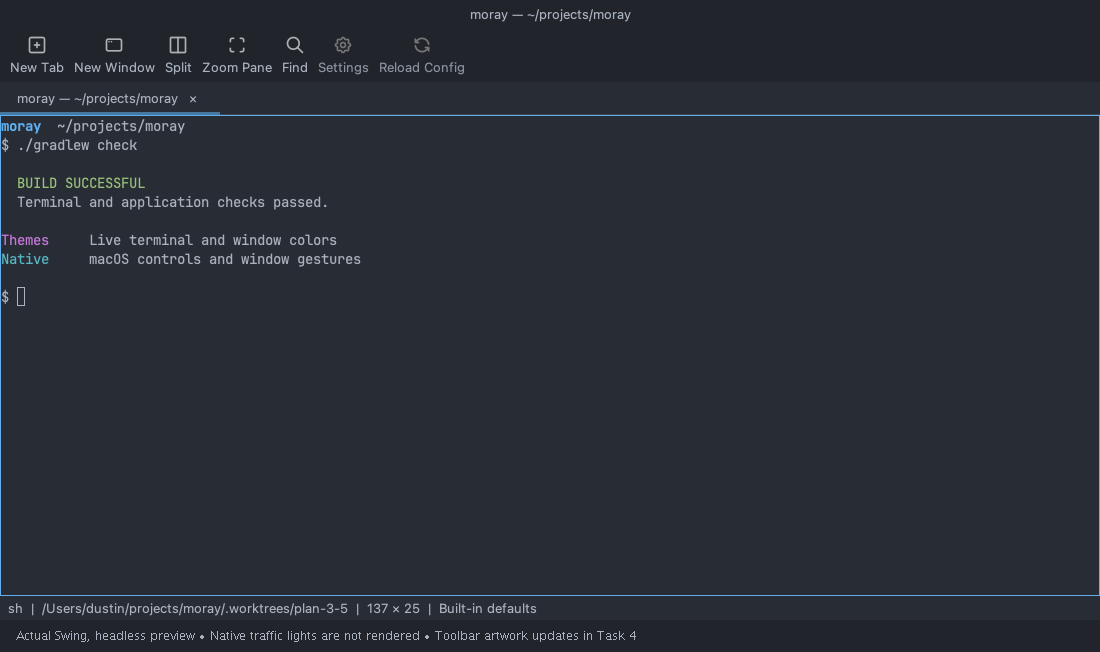
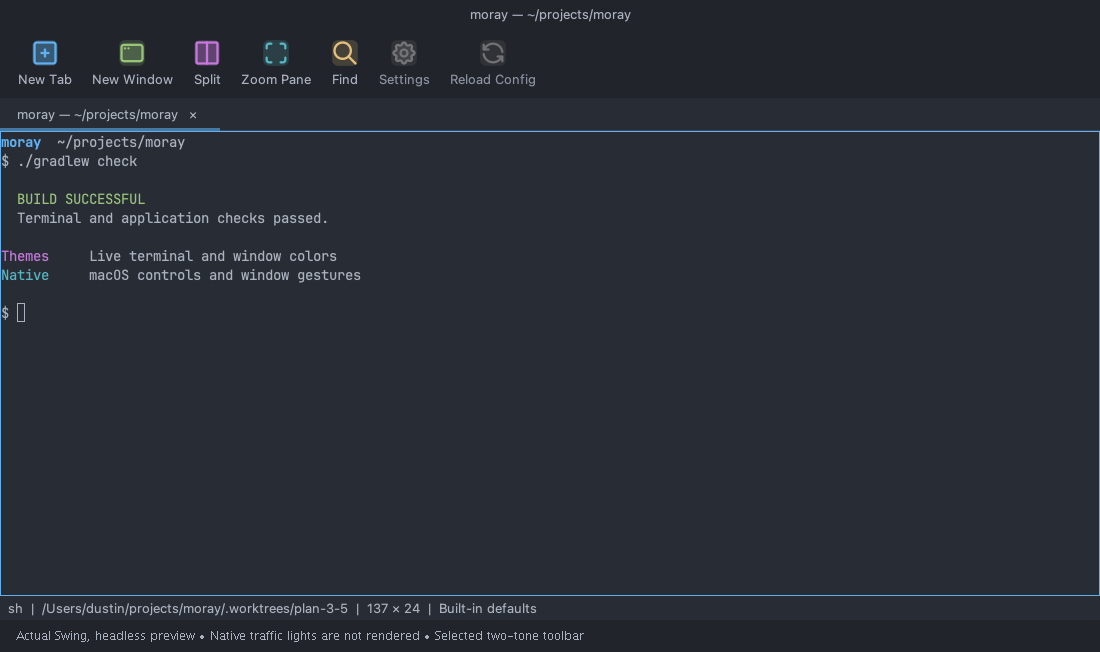
Add two-tone colored toolbar

Changed region(s): [[0.0, 0.0613, 0.4636, 0.4908], [0.4018, 0.9509, 0.5564, 0.9816], [0.9891, 0.1534, 1.0, 0.2147]]

diff --git a/moray-app/src/test/java/dev/moray/app/AppIconsTest.java b/moray-app/src/test/java/dev/moray/app/AppIconsTest.java
@@ -1,23 +1,38 @@
 package dev.moray.app;
 
-import com.formdev.flatlaf.FlatDarkLaf;
-import com.formdev.flatlaf.FlatLightLaf;
+import com.formdev.flatlaf.extras.FlatSVGIcon;
+import java.awt.Color;
 import java.awt.image.BufferedImage;
+import java.util.LinkedHashSet;
+import java.util.Set;
 import javax.swing.UIManager;
 import org.junit.jupiter.api.Test;
-import static org.assertj.core.api.Assertions.assertThat;
 import static dev.moray.app.DesktopTestSupport.edt;
+import static org.assertj.core.api.Assertions.assertThat;
 
 class AppIconsTest {
-    @Test void bundledToolbarResourcesLoadAndPaintInBothAppearances() throws Exception {
+    private static final IconCase[] ICONS = {
+        new IconCase("square-plus", 0x61afef, 0x315fc4),
+        new IconCase("app-window", 0x98c379, 0x3d7d3b),
+        new IconCase("columns-2", 0xc678dd, 0x87218b),
+        new IconCase("maximize", 0x56b6c2, 0x006b96),
+        new IconCase("search", 0xe5c07b, 0x986801),
+        new IconCase("settings", 0xa4adba, 0x696c77),
+        new IconCase("refresh", 0xe06c75, 0xca4035)
+    };
+
+    @Test void everyToolbarIconPaintsTheSelectedTwoToneTreatmentInBothThemes() throws Exception {
         edt(() -> {
             var original = UIManager.getLookAndFeel();
             try {
-                FlatLightLaf.setup();
-                int light = paintIcons();
-                FlatDarkLaf.setup();
-                int dark = paintIcons();
-                assertThat(dark).as("dark chrome uses brighter icon strokes").isGreaterThan(light);
+                var themes = new ThemeController();
+                Set<Integer> darkStrokes = paintAndVerify(ICONS, true);
+                themes.select(BuiltinTheme.LIGHT);
+                Set<Integer> lightStrokes = paintAndVerify(ICONS, false);
+
+                assertThat(darkStrokes).hasSize(ICONS.length);
+                assertThat(lightStrokes).hasSize(ICONS.length);
+                assertThat(lightStrokes).doesNotContainAnyElementsOf(darkStrokes);
             } finally {
                 try { UIManager.setLookAndFeel(original); }
                 catch (javax.swing.UnsupportedLookAndFeelException e) { throw new AssertionError(e); }
@@ -25,21 +40,59 @@ class AppIconsTest {
         });
     }
 
-    private static int paintIcons() {
-        int brightness = 0;
-        for (String name : new String[]{"square-plus", "app-window", "columns-2", "maximize", "search", "settings", "refresh"}) {
-            var icon = AppIcons.icon(name);
-            assertThat(icon.hasFound()).as(name).isTrue();
-            BufferedImage image = new BufferedImage(24, 24, BufferedImage.TYPE_INT_ARGB);
-            var graphics = image.createGraphics();
-            try { icon.paintIcon(null, graphics, 0, 0); } finally { graphics.dispose(); }
-            int pixels = 0;
-            for (int y = 0; y < 24; y++) for (int x = 0; x < 24; x++) {
-                int color = image.getRGB(x, y);
-                if ((color >>> 24) != 0) { pixels++; brightness += color & 255; }
+    @Test void anExistingIconRecolorsWhenTheApplicationThemeChanges() throws Exception {
+        edt(() -> {
+            var original = UIManager.getLookAndFeel();
+            try {
+                var themes = new ThemeController();
+                FlatSVGIcon icon = AppIcons.icon("square-plus");
+                assertThat(paint(icon).opaqueRgb()).contains(0x61afef);
+
+                themes.select(BuiltinTheme.LIGHT);
+
+                assertThat(paint(icon).opaqueRgb()).contains(0x315fc4).doesNotContain(0x61afef);
+            } finally {
+                try { UIManager.setLookAndFeel(original); }
+                catch (javax.swing.UnsupportedLookAndFeelException e) { throw new AssertionError(e); }
             }
-            assertThat(pixels).as(name + " has visible strokes").isGreaterThan(0);
-        }
-        return brightness;
+        });
     }
+
+    private static Set<Integer> paintAndVerify(IconCase[] cases, boolean dark) {
+        Set<Integer> strokes = new LinkedHashSet<>();
+        for (IconCase item : cases) {
+            FlatSVGIcon icon = AppIcons.icon(item.name());
+            int stroke = dark ? item.darkRgb() : item.lightRgb();
+            assertThat(icon.hasFound()).as(item.name()).isTrue();
+            assertThat(icon.getWidth()).as(item.name() + " logical width").isEqualTo(28);
+            assertThat(icon.getHeight()).as(item.name() + " logical height").isEqualTo(28);
+
+            Painted painted = paint(icon);
+            assertThat(painted.opaqueRgb()).as(item.name() + " stroke color").contains(stroke);
+            assertThat(painted.translucentPixels()).as(item.name() + " soft color field").isGreaterThan(100);
+            assertThat(painted.opaquePixels()).as(item.name() + " recognizable outline").isGreaterThan(10);
+            strokes.add(stroke);
+        }
+        return strokes;
+    }
+
+    private static Painted paint(FlatSVGIcon icon) {
+        BufferedImage image = new BufferedImage(icon.getIconWidth(), icon.getIconHeight(), BufferedImage.TYPE_INT_ARGB);
+        var graphics = image.createGraphics();
+        try { icon.paintIcon(null, graphics, 0, 0); } finally { graphics.dispose(); }
+        Set<Integer> opaqueRgb = new LinkedHashSet<>();
+        int translucent = 0;
+        int opaque = 0;
+        for (int y = 0; y < image.getHeight(); y++) for (int x = 0; x < image.getWidth(); x++) {
+            Color color = new Color(image.getRGB(x, y), true);
+            if (color.getAlpha() == 255) {
+                opaque++;
+                opaqueRgb.add(color.getRGB() & 0xffffff);
+            } else if (color.getAlpha() > 0) translucent++;
+        }
+        return new Painted(opaqueRgb, translucent, opaque);
+    }
+
+    private record IconCase(String name, int darkRgb, int lightRgb) {}
+    private record Painted(Set<Integer> opaqueRgb, int translucentPixels, int opaquePixels) {}
 }

diff --git a/moray-app/src/test/java/dev/moray/app/WindowChromeTest.java b/moray-app/src/test/java/dev/moray/app/WindowChromeTest.java
@@ -3,6 +3,7 @@ package dev.moray.app;
 import com.formdev.flatlaf.FlatDarkLaf;
 import com.formdev.flatlaf.FlatLightLaf;
 import java.util.ArrayDeque;
+import java.util.List;
 import javax.swing.*;
 import org.junit.jupiter.api.Test;
 import static dev.moray.app.DesktopTestSupport.*;
@@ -39,6 +40,38 @@ class WindowChromeTest {
                 try { UIManager.setLookAndFeel(original); }
                 catch (UnsupportedLookAndFeelException e) { throw new AssertionError(e); }
             }
+        });
+    }
+
+    @Test void coloredToolbarKeepsLabelsAccessibilityDisabledActionsAndVisibilityModes() throws Exception {
+        edt(() -> {
+            var owner = content(launcher(new ArrayDeque<>()));
+            owner.updateActions();
+            List<JButton> buttons = java.util.Arrays.stream(owner.toolbar().getComponents())
+                .filter(JButton.class::isInstance).map(JButton.class::cast).toList();
+
+            assertThat(buttons).extracting(JButton::getText)
+                .containsExactly("New Tab", "New Window", "Split", "Zoom Pane", "Find", "Settings", "Reload Config");
+            assertThat(buttons).allSatisfy(button -> {
+                assertThat(button.getIcon().getIconWidth()).isEqualTo(28);
+                assertThat(button.getIcon().getIconHeight()).isEqualTo(28);
+                assertThat(button.getAccessibleContext().getAccessibleName()).isNotBlank();
+                assertThat(button.getToolTipText()).isNotBlank();
+            });
+            assertThat(buttons.get(2).getAccessibleContext().getAccessibleName()).isEqualTo("Split pane");
+            assertThat(buttons.get(5).isEnabled()).isFalse();
+            assertThat(buttons.get(6).isEnabled()).isFalse();
+            List<Icon> icons = buttons.stream().map(AbstractButton::getIcon).toList();
+
+            owner.setToolbarMode(WindowContent.ToolbarMode.ICONS);
+            assertThat(buttons).extracting(JButton::getText).containsOnlyNulls();
+            assertThat(buttons).extracting(AbstractButton::getIcon).containsExactlyElementsOf(icons);
+            owner.setToolbarMode(WindowContent.ToolbarMode.HIDDEN);
+            assertThat(owner.toolbar().isVisible()).isFalse();
+            owner.setToolbarMode(WindowContent.ToolbarMode.ICONS_AND_LABELS);
+            assertThat(owner.toolbar().isVisible()).isTrue();
+            assertThat(buttons).extracting(JButton::getText)
+                .containsExactly("New Tab", "New Window", "Split", "Zoom Pane", "Find", "Settings", "Reload Config");
         });
     }
 

diff --git a/moray-app/src/main/java/dev/moray/app/AppIcons.java b/moray-app/src/main/java/dev/moray/app/AppIcons.java
@@ -1,11 +1,30 @@
 package dev.moray.app;
 
 import com.formdev.flatlaf.extras.FlatSVGIcon;
+import java.awt.Color;
+import javax.swing.UIManager;
 
 /** Bundled Tabler icons; no network access is needed to render chrome. */
 final class AppIcons {
     private AppIcons() {}
     static FlatSVGIcon icon(String name) {
-        return new FlatSVGIcon("dev/moray/app/icons/" + name + ".svg", 20, 20);
+        String colorKey = switch (name) {
+            case "square-plus" -> "Moray.icon.newTab";
+            case "app-window" -> "Moray.icon.newWindow";
+            case "columns-2" -> "Moray.icon.split";
+            case "maximize" -> "Moray.icon.zoom";
+            case "search" -> "Moray.icon.find";
+            case "settings" -> "Moray.icon.settings";
+            case "refresh" -> "Moray.icon.reload";
+            default -> throw new IllegalArgumentException("Unknown application icon: " + name);
+        };
+        FlatSVGIcon icon = new FlatSVGIcon("dev/moray/app/icons/" + name + ".svg", 28, 28);
+        return icon.setColorFilter(new FlatSVGIcon.ColorFilter(source -> themed(colorKey, source)));
+    }
+
+    private static Color themed(String key, Color source) {
+        Color target = UIManager.getColor(key);
+        if (target == null) return source;
+        return new Color(target.getRed(), target.getGreen(), target.getBlue(), source.getAlpha());
     }
 }

diff --git a/moray-app/src/main/java/dev/moray/app/WindowChrome.java b/moray-app/src/main/java/dev/moray/app/WindowChrome.java
@@ -1,6 +1,7 @@
 package dev.moray.app;
 
 import java.awt.Dimension;
+import java.awt.Insets;
 import java.awt.event.*;
 import javax.swing.*;
 import javax.swing.event.MenuEvent;
@@ -27,7 +28,7 @@ final class WindowChrome {
     WindowChrome(WindowContent owner) {
         this.owner = owner;
         toolbar.setFloatable(false);
-        toolbar.setBorder(BorderFactory.createEmptyBorder(3, 5, 3, 5));
+        toolbar.setBorder(BorderFactory.createEmptyBorder(6, 8, 6, 8));
         status.setBorder(BorderFactory.createEmptyBorder(4, 8, 4, 8));
         status.setToolTipText("Using built-in defaults. Configuration files are not loaded yet.");
         JMenu file = menu("File", ActionId.NEW_TAB, ActionId.NEW_WINDOW, ActionId.CLOSE_TAB, ActionId.CLOSE_PANE,
@@ -96,6 +97,7 @@ final class WindowChrome {
     private JButton addButton(ActionId id, String icon) {
         JButton button = toolbar.add(owner.action(id));
         button.setIcon(AppIcons.icon(icon)); button.setFocusable(false);
+        button.setMargin(new Insets(4, 8, 4, 8));
         button.setVerticalTextPosition(SwingConstants.BOTTOM); button.setHorizontalTextPosition(SwingConstants.CENTER);
         button.getAccessibleContext().setAccessibleName(id.label());
         if (button.getToolTipText() == null) button.setToolTipText(id.label());
